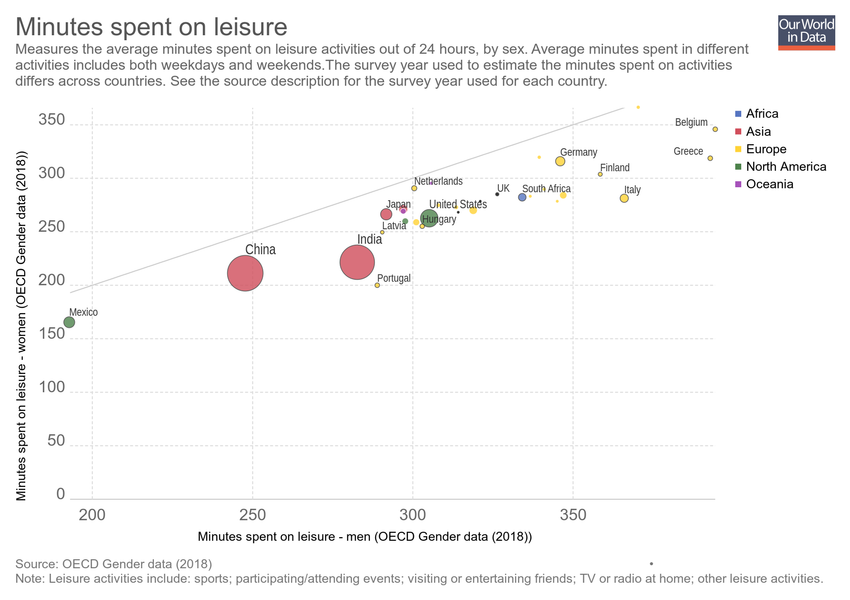
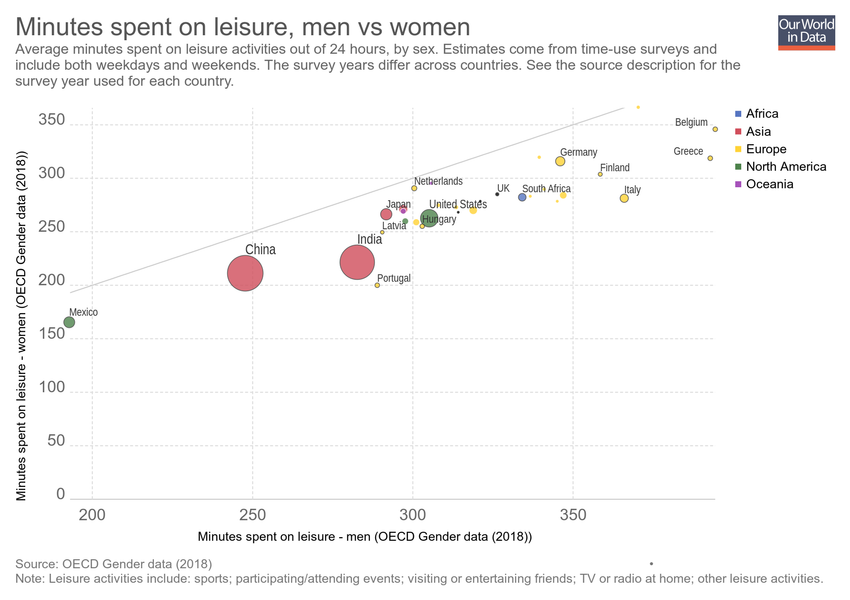
Updating chart minutes-spent-on-leisure

Changed region(s): [[0.0, 0.03, 0.8871, 0.15]]

diff --git a/grapher/minutes-spent-on-leisure.html b/grapher/minutes-spent-on-leisure.html
@@ -1,4 +1,4 @@
-<!doctype html><html><head><meta name="viewport" content="width=device-width, initial-scale=1" /><title>Minutes spent on leisure - Our World in Data</title><meta name="description" content="Measures the average minutes spent on leisure activities out of 24 hours, by sex. Average minutes spent in different activities includes both weekdays and weekends.The survey year used to estimate the minutes spent on activities differs across countries. See the source description for the survey year used for each country." /><link rel="canonical" href="https://ourworldindata.org/grapher/minutes-spent-on-leisure" /><meta property="fb:app_id" content="1149943818390250" /><meta property="og:url" content="https://ourworldindata.org/grapher/minutes-spent-on-leisure" /><meta property="og:title" content="Minutes spent on leisure" /><meta property="og:description" content="Measures the average minutes spent on leisure activities out of 24 hours, by sex. Average minutes spent in different activities includes both weekdays and weekends.The survey year used to estimate the minutes spent on activities differs across countries. See the source description for the survey year used for each country." /><meta property="og:image" content="https://ourworldindata.org/grapher/exports/minutes-spent-on-leisure.png?v=2" /><meta property="og:image:width" content="850" /><meta property="og:image:height" content="600" /><meta property="og:site_name" content="Our World in Data" /><meta name="twitter:card" content="summary_large_image" /><meta name="twitter:site" content="@OurWorldInData" /><meta name="twitter:creator" content="@OurWorldInData" /><meta name="twitter:title" content="Minutes spent on leisure" /><meta name="twitter:description" content="Measures the average minutes spent on leisure activities out of 24 hours, by sex. Average minutes spent in different activities includes both weekdays and weekends.The survey year used to estimate the minutes spent on activities differs across countries. See the source description for the survey year used for each country." /><meta name="twitter:image" content="https://ourworldindata.org/grapher/exports/minutes-spent-on-leisure.png?v=2" /><style>
+<!doctype html><html><head><meta name="viewport" content="width=device-width, initial-scale=1" /><title>Minutes spent on leisure, men vs women - Our World in Data</title><meta name="description" content="Average minutes spent on leisure activities out of 24 hours, by sex. Estimates come from time-use surveys and include both weekdays and weekends. The survey years differ across countries. See the source description for the survey year used for each country." /><link rel="canonical" href="https://ourworldindata.org/grapher/minutes-spent-on-leisure" /><meta property="fb:app_id" content="1149943818390250" /><meta property="og:url" content="https://ourworldindata.org/grapher/minutes-spent-on-leisure" /><meta property="og:title" content="Minutes spent on leisure, men vs women" /><meta property="og:description" content="Average minutes spent on leisure activities out of 24 hours, by sex. Estimates come from time-use surveys and include both weekdays and weekends. The survey years differ across countries. See the source description for the survey year used for each country." /><meta property="og:image" content="https://ourworldindata.org/grapher/exports/minutes-spent-on-leisure.png?v=4" /><meta property="og:image:width" content="850" /><meta property="og:image:height" content="600" /><meta property="og:site_name" content="Our World in Data" /><meta name="twitter:card" content="summary_large_image" /><meta name="twitter:site" content="@OurWorldInData" /><meta name="twitter:creator" content="@OurWorldInData" /><meta name="twitter:title" content="Minutes spent on leisure, men vs women" /><meta name="twitter:description" content="Average minutes spent on leisure activities out of 24 hours, by sex. Estimates come from time-use surveys and include both weekdays and weekends. The survey years differ across countries. See the source description for the survey year used for each country." /><meta name="twitter:image" content="https://ourworldindata.org/grapher/exports/minutes-spent-on-leisure.png?v=4" /><style>
         html, body {
             height: 100%;
             margin: 0;
@@ -20,8 +20,8 @@
         }
     </style><noscript><style>
                     figure { display: none !important; }
-                </style></noscript><link rel="stylesheet" href="https://ourworldindata.org/grapher/assets/commons.bundle.dcbbe53805c487d5e57617b10ac73a8a.css" /><link rel="preload" href="/grapher/data/variables/96620+96615+72+123.json?v=2" as="fetch" crossorigin /></head><body class="singleChart"><figure data-grapher-src="/grapher/minutes-spent-on-leisure"></figure><noscript id="fallback"><img src="/grapher/exports/minutes-spent-on-leisure.svg" /><p>Interactive visualization requires JavaScript</p></noscript><script src="https://cdn.polyfill.io/v2/polyfill.min.js?features=es6,fetch"></script><script src="https://ourworldindata.org/grapher/assets/commons.bundle.43d139222ef978d52c09.js"></script><script src="https://ourworldindata.org/grapher/assets/charts.bundle.43d139222ef978d52c09.js"></script><script>
-        var jsonConfig = {"id":2541,"map":{"projection":"World","colorSchemeLabels":[],"colorSchemeValues":[],"colorSchemeMinValue":0,"customNumericColors":[],"customCategoryColors":{},"customCategoryLabels":{},"customHiddenCategories":{}},"tab":"chart","note":"Leisure activities include: sports; participating/attending events; visiting or entertaining friends; TV or radio at home; other leisure activities.","slug":"minutes-spent-on-leisure","type":"ScatterPlot","title":"Minutes spent on leisure","xAxis":{"scaleType":"linear"},"yAxis":{"min":0,"scaleType":"linear"},"version":2,"subtitle":"Measures the average minutes spent on leisure activities out of 24 hours, by sex. Average minutes spent in different activities includes both weekdays and weekends.The survey year used to estimate the minutes spent on activities differs across countries. See the source description for the survey year used for each country.","hasMapTab":false,"stackMode":"absolute","dimensions":[{"display":{},"property":"y","variableId":96620},{"display":{},"property":"x","variableId":96615},{"display":{},"property":"size","variableId":72},{"display":{},"property":"color","variableId":123}],"isAutoSlug":true,"hasChartTab":true,"isPublished":true,"selectedData":[],"comparisonLine":{},"hideTitleAnnotation":true};
+                </style></noscript><link rel="stylesheet" href="https://ourworldindata.org/grapher/assets/commons.bundle.dcbbe53805c487d5e57617b10ac73a8a.css" /><link rel="preload" href="/grapher/data/variables/96620+96615+72+123.json?v=4" as="fetch" crossorigin /></head><body class="singleChart"><figure data-grapher-src="/grapher/minutes-spent-on-leisure"></figure><noscript id="fallback"><img src="/grapher/exports/minutes-spent-on-leisure.svg" /><p>Interactive visualization requires JavaScript</p></noscript><script src="https://cdn.polyfill.io/v2/polyfill.min.js?features=es6,fetch"></script><script src="https://ourworldindata.org/grapher/assets/commons.bundle.43d139222ef978d52c09.js"></script><script src="https://ourworldindata.org/grapher/assets/charts.bundle.43d139222ef978d52c09.js"></script><script>
+        var jsonConfig = {"id":2541,"map":{"projection":"World","colorSchemeLabels":[],"colorSchemeValues":[],"colorSchemeMinValue":0,"customNumericColors":[],"customCategoryColors":{},"customCategoryLabels":{},"customHiddenCategories":{}},"tab":"chart","note":"Leisure activities include: sports; participating/attending events; visiting or entertaining friends; TV or radio at home; other leisure activities.","slug":"minutes-spent-on-leisure","type":"ScatterPlot","title":"Minutes spent on leisure, men vs women","xAxis":{"scaleType":"linear"},"yAxis":{"min":0,"scaleType":"linear"},"version":4,"subtitle":"Average minutes spent on leisure activities out of 24 hours, by sex. Estimates come from time-use surveys and include both weekdays and weekends. The survey years differ across countries. See the source description for the survey year used for each country.","hasMapTab":false,"stackMode":"absolute","dimensions":[{"display":{},"property":"y","variableId":96620},{"display":{},"property":"x","variableId":96615},{"display":{},"property":"size","variableId":72},{"display":{},"property":"color","variableId":123}],"hasChartTab":true,"isPublished":true,"selectedData":[],"comparisonLine":{},"hideTitleAnnotation":true};
         var figure = document.getElementsByTagName("figure")[0];
         try {
             window.App = {};
